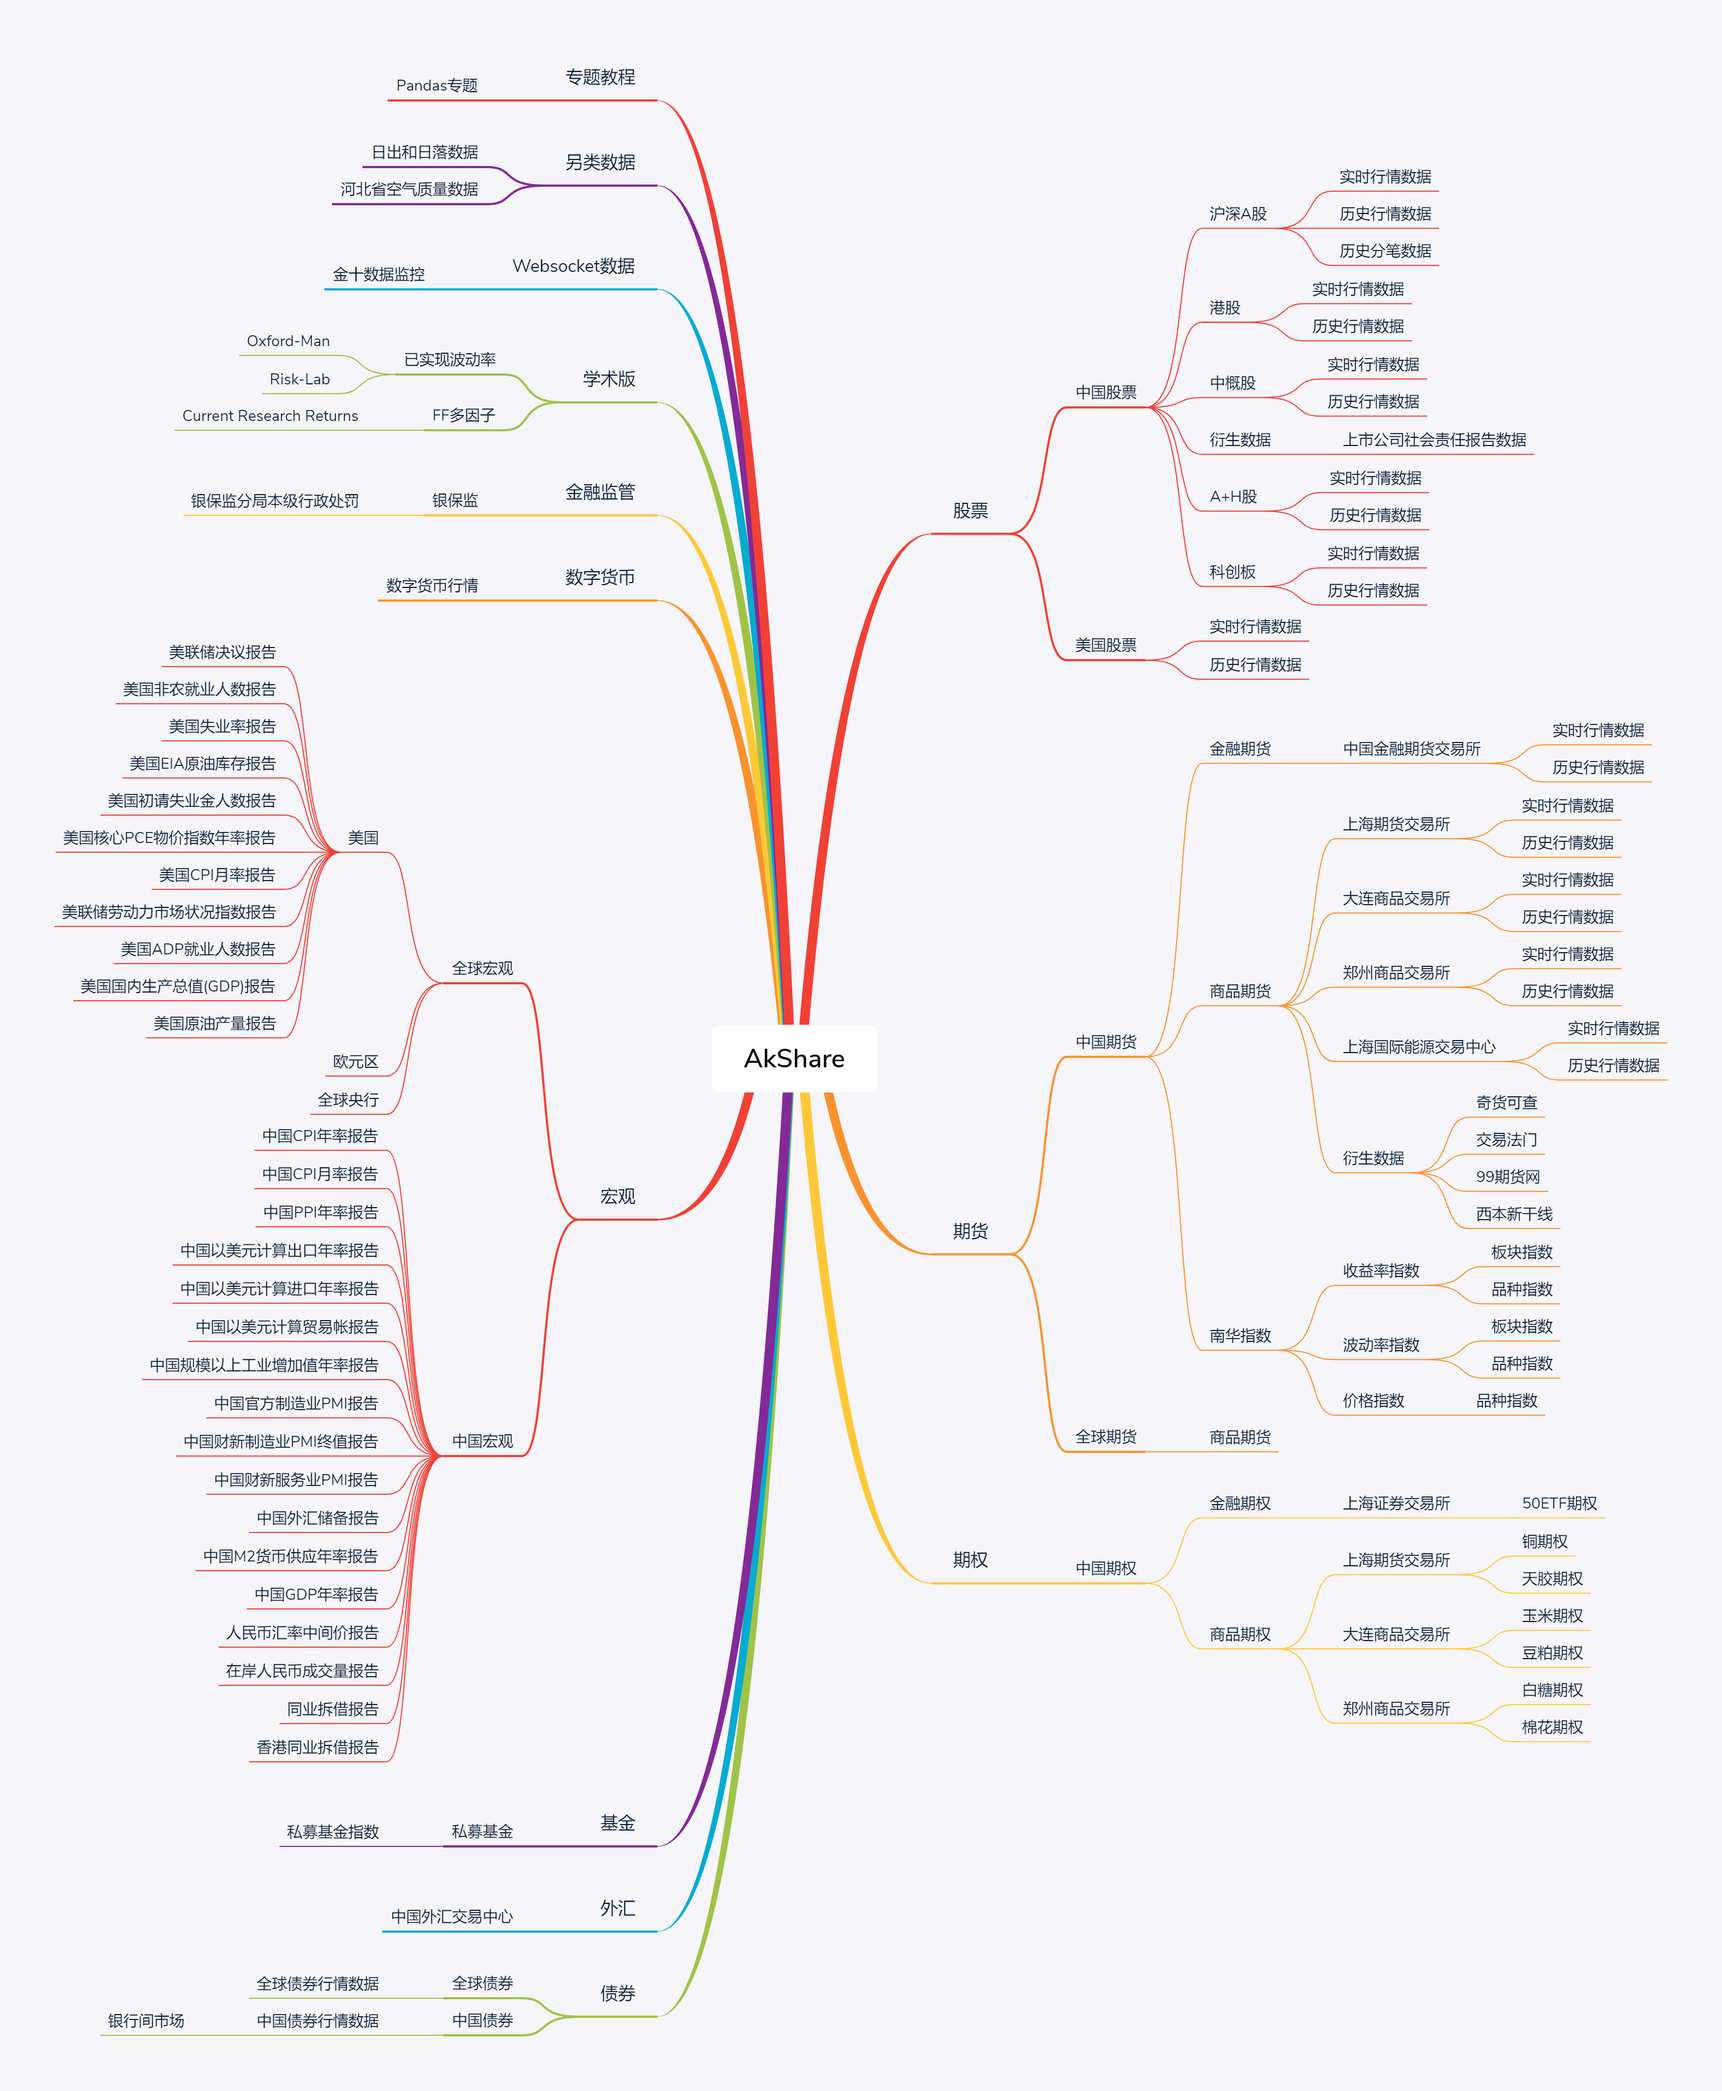
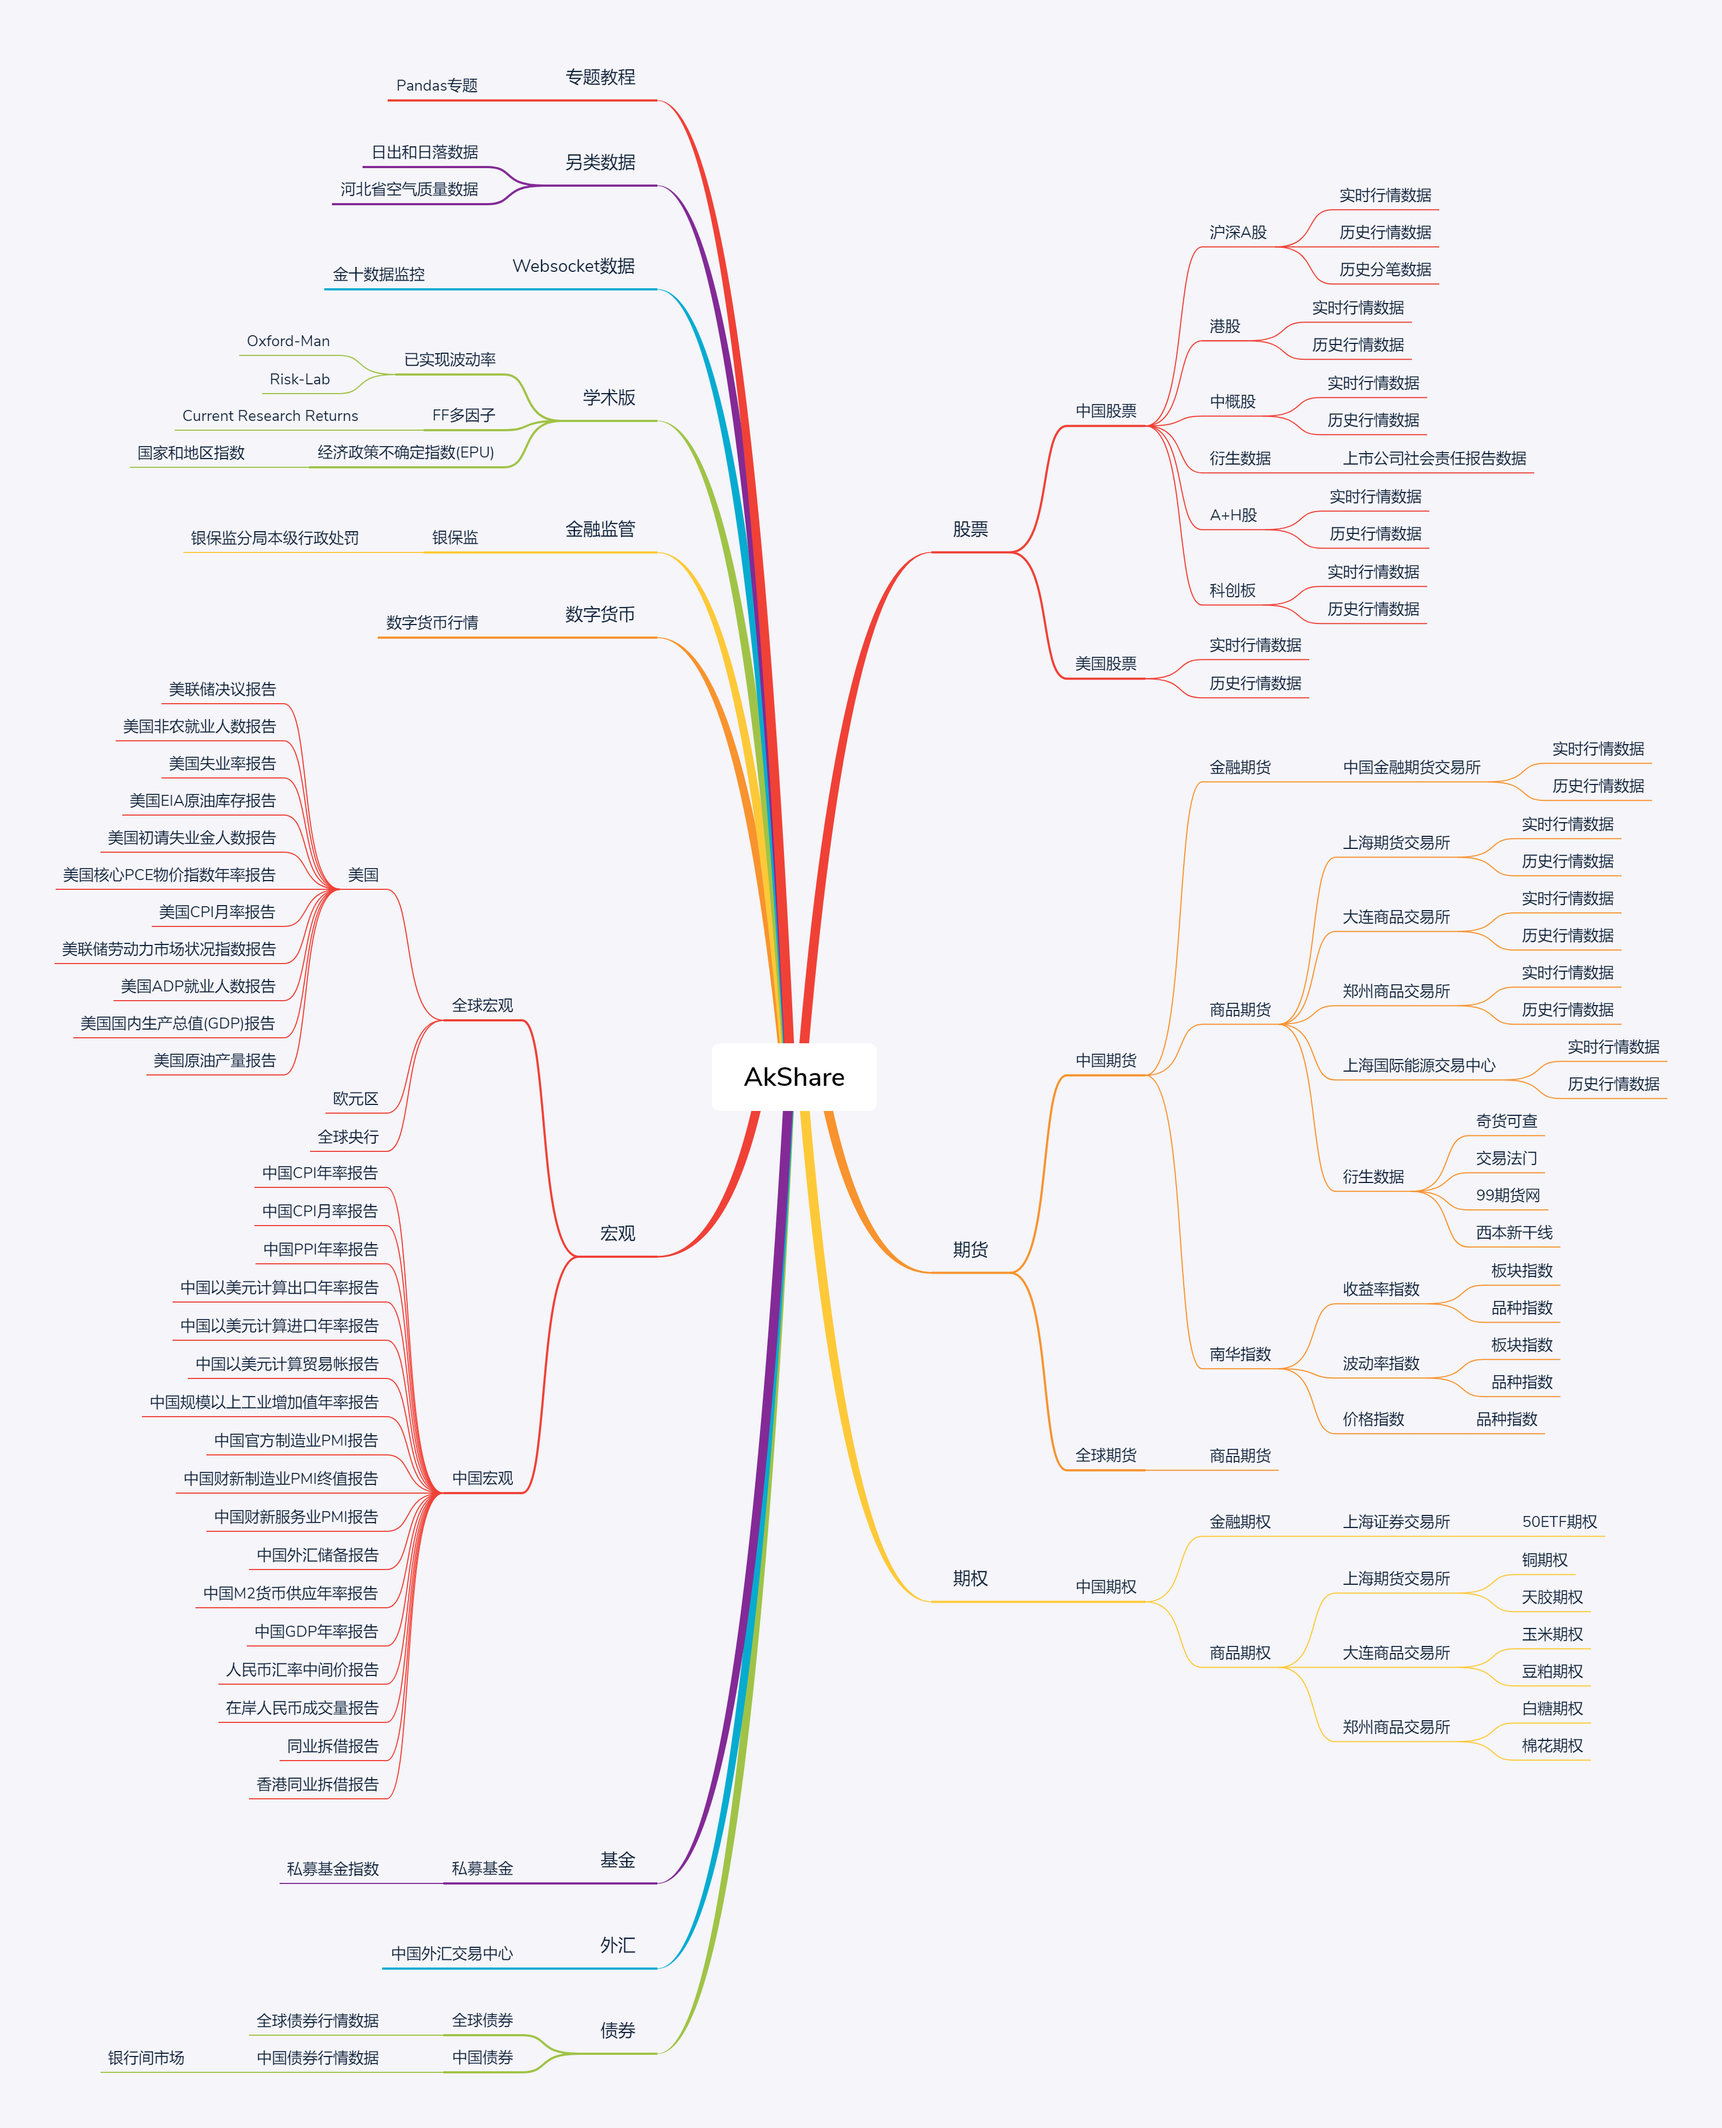
0.2.56 新增经济政策不确定性(EPU)数据接口 更新说明文档 修改示例说明

diff --git a/akshare/article/epu_index.py b/akshare/article/epu_index.py
@@ -1,0 +1,53 @@
+# -*- coding:utf-8 -*-
+# /usr/bin/env python
+"""
+Author: Albert King
+date: 2019/11/30 13:14
+contact: jindaxiang@163.com
+desc: 获取 http://www.policyuncertainty.com/index.html 网站的经济政策不确定性指数
+"""
+import requests
+import pandas as pd
+from bs4 import BeautifulSoup
+
+from akshare.article.cons import epu_home_url
+
+res = requests.get(epu_home_url)
+soup = BeautifulSoup(res.text, "lxml")
+html_left_list = soup.find(attrs={"class": "sidebar_container"}).find_all("p", attrs={"class": "alignleft"})
+html_right_list = soup.find(attrs={"class": "sidebar_container"}).find_all("p", attrs={"class": "alignright"})
+
+index_left_list = [item.get_text() for item in html_left_list][4:]
+index_right_list = [item.get_text() for item in html_right_list]
+index_list = index_left_list + index_right_list
+
+
+def article_epu_index(index="China"):
+    if index == "China New":
+        index = "China"
+    if index == "USA":
+        index = "US"
+    if index == "Hong Kong":
+        index = "HK"
+        epu_df = pd.read_excel(f"http://www.policyuncertainty.com/media/{index}_EPU_Data_Annotated.xlsx")
+        return epu_df
+    if index in ["Germany", "France", "Italy"]:  # 欧洲
+        index = "Europe"
+    if index == "South Korea":
+        index = "Korea"
+    if index == "Spain New":
+        index = "Spain"
+    if index in ["Ireland", "Chile", "Colombia", "Netherlands", "Singapore", "Sweden"]:
+        epu_df = pd.read_excel(f"http://www.policyuncertainty.com/media/{index}_Policy_Uncertainty_Data.xlsx")
+        return epu_df
+    if index == "Greece":
+        epu_df = pd.read_excel(f"http://www.policyuncertainty.com/media/FKT_{index}_Policy_Uncertainty_Data.xlsx")
+        return epu_df
+    url = f"http://www.policyuncertainty.com/media/{index}_Policy_Uncertainty_Data.csv"
+    epu_df = pd.read_csv(url)
+    return epu_df
+
+
+if __name__ == "__main__":
+    epu_index_df = article_epu_index(index="China")
+    print(epu_index_df)

diff --git a/akshare/__init__.py b/akshare/__init__.py
@@ -337,10 +337,19 @@ PCE物价指数年率报告
 0.2.55
 更新已实现波动率的说明文档
 统一 ff_crr --> article_ff_crr
+0.2.56
+新增经济政策不确定性(EPU)数据接口
+更新说明文档
+修改示例说明
 """
 
-__version__ = '0.2.55'
+__version__ = '0.2.56'
 __author__ = 'Albert King'
+
+"""
+经济政策不确定性指数
+"""
+from akshare.article.epu_index import article_epu_index
 
 """
 南华期货-南华指数

diff --git a/akshare/article/cons.py b/akshare/article/cons.py
@@ -6,5 +6,9 @@ date: 2019/11/14 20:32
 contact: jindaxiang@163.com
 desc: 学术板块配置文件
 """
+# EPU
+epu_home_url = "http://www.policyuncertainty.com/index.html"
+
 # FF-factor
 ff_home_url = "http://mba.tuck.dartmouth.edu/pages/faculty/ken.french/data_library.html"
+

diff --git a/docs/source/data/article/article.md b/docs/source/data/article/article.md
@@ -269,3 +269,82 @@ Big Conservative                                       5.23
 Big Neutral                                            4.49  
 Big Aggressive                                        -0.38
 ```
+
+
+## [AkShare](https://github.com/jindaxiang/akshare) 经济政策不确定性(EPU)指数
+
+### 国家和地区指数
+
+接口: article_epu_index
+
+目标地址: http://www.policyuncertainty.com/index.html
+
+描述: 获取国家或地区的经济政策不确定性(EPU)数据
+
+限量: 单次返回某个具体国家或地区的所有月度经济政策不确定性数据
+
+输入参数
+
+| 名称   | 类型 | 必选 | 描述                                                                              |
+| -------- | ---- | ---- | --- |
+| index | str  | Y    |  index="China"; 按 **国家和地区一览表** 输入相应参数|
+
+国家和地区一览表
+
+| 英文名词          | 说明 |
+| --------------- | ----- | 
+| Global |  | 
+| Australia |  | 
+| Canada |  | 
+| China |  | 
+| Europe | 欧洲 | 
+| Germany | 欧洲 | 
+| Hong Kong |  | 
+| Ireland |  | 
+| Japan |  | 
+| Mexico |  | 
+| Russia |  | 
+| Spain |  | 
+| UK |  | 
+| USA |  | 
+| Brazil |  | 
+| Chile |  | 
+| Colombia | 有两种, 默认第一种(FKT) | 
+| France | 欧洲 | 
+| Greece |  | 
+| India |  | 
+| Italy | 欧洲 | 
+| South Korea |  | 
+| Netherlands |  | 
+| Singapore |  | 
+| Sweden |  |
+
+输出参数
+
+| 名称          | 类型 | 默认显示 | 描述           |
+| --------------- | ----- | -------- | ---------------- |
+| -      | -   | -        | 每个国家或地区不同  |  
+
+接口示例
+
+```python
+import akshare as ak
+epu_index_df = ak.article_epu_index(index="China")
+print(epu_index_df)
+```
+
+数据示例
+
+```
+     year  month  China_Policy_Index
+0    1995      1           192.91190
+1    1995      2           193.98790
+2    1995      3            88.22704
+3    1995      4           131.03470
+4    1995      5           177.09690
+..    ...    ...                 ...
+287  2018     12           935.31030
+288  2019      1           654.96260
+289  2019      2           720.15790
+290  2019      3           753.10770
+291  2019      4           502.55000```

diff --git a/docs/source/akshare/ak-tutorial.md b/docs/source/akshare/ak-tutorial.md
@@ -4,16 +4,9 @@
 
 ## 2. 再查看 [AkShare](https://github.com/jindaxiang/akshare) 提供的数据接口
 
-**Example 2.1** 查看 [AkShare](https://github.com/jindaxiang/akshare) 提供的数据接口
+具体函数使用详情, 请查看 [AkShare 文档](https://akshare.readthedocs.io/) 每个接口的示例代码
 
-代码:
-
-```python
-import akshare as ak
-[item for item in dir(ak) if item.startswith("get")]
-```
-
-结果显示: 数据获取函数说明
+[AkShare](https://github.com/jindaxiang/akshare) 数据接口一览表
 
 ```
  # 交易所期货数据
@@ -146,14 +139,28 @@ import akshare as ak
  'stock_zh_index_daily'  # 股票指数历史行情数据
  'stock_zh_index_spot'  # 股票指数实时行情数据
  # 股票分笔数据
- 'stock_zh_a_tick'  # A股票分笔行情数据(近2年)
+ 'stock_zh_a_tick'  # A 股票分笔行情数据(近2年)
+ # Websocket 实时监控
+ 'watch'  # 监控外汇实时价格
+ # 世界各地区日出和日落数据-日
+ 'weather_daily'  # 每日日出和日落数据
+ # 世界各地区日出和日落数据-月
+ 'weather_monthly'  # 每月日出和日落数据
+ # 河北空气质量数据(期货-钢铁)
+ 'air_hebei'  # 河北空气质量数据
+ # 南华期货-南华指数-波动率指数
+ 'nh_volatility_index'  # 波动率指数
+ # 南华期货-南华指数-价格指数
+ 'nh_price_index'  # 价格指数
+ # 南华期货-南华指数-收益率指数
+ 'nh_return_index'  # 收益率指数
+ # 经济政策不确定性(EPU)指数
+ 'article_epu_index'  # 主要国家和地区的经济政策不确定性(EPU)指数
 ```
 
 ## 3. 案例演示
 
-### 3. 获取展期收益率
-
-**Example 3.1** 获取展期收益率数据:
+### 3.1 获取展期收益率
 
 代码:
 
@@ -190,9 +197,7 @@ ak.get_roll_yield_bar(type_method="date", var="RB", start_day="20180618", end_da
 2018-07-18    0.225529  RB1810   RB1901
 ```
 
-### 4. 获取私募指数数据
-
-**Example 4.1** 获取私募指数数据:
+### 3.2 获取私募指数数据
 
 代码:
 

diff --git a/docs/source/akshare/ak-introduction.md b/docs/source/akshare/ak-introduction.md
@@ -89,6 +89,19 @@
     6.27 增加[腾讯财经](http://stockapp.finance.qq.com/mstats/#mod=list&id=ssa&module=SS&type=ranka)数据接口, 提供历史分笔行情数据(近2年)
     
     6.28 增加[金十数据](https://datacenter.jin10.com/market)监控数据接口, 提供基于 Websocket 的数据接口(基础版本);
+
+    6.29 增加[微信公众号: Python大咖谈](https://upload-images.jianshu.io/upload_images/3240514-61004f2c71be4a0b.png)专题教程-pandas专题-连载;
+
+    6.30 增加[timeanddate网站](https://www.timeanddate.com/)提供的日出和日落数据接口;
+    
+    6.31 增加[河北省空气质量预报信息发布系统网站](http://110.249.223.67/publish/)提供的河北省空气质量数据接口;
+    
+    6.32 增加[南华期货网站](http://www.nanhua.net/nhzc/varietytrend.html)商品指数历史走势-收益率指数、价格指数、波动率指数接口;
+    
+    6.33 增加[Economic Policy Uncertainty网站](http://www.nanhua.net/nhzc/varietytrend.html)提供经济政策不确定性(EPU)指数数据接口;
+
+
+
 7. 提供完善的接口文档, 提高 [AkShare](https://github.com/jindaxiang/akshare) 的易用性;
 8. 希望您能参与 [AkShare GitHub](https://github.com/jindaxiang/akshare) 的维护与管理.
 

diff --git a/README.md b/README.md
@@ -110,6 +110,8 @@ pip install akshare --upgrade
 
 感谢[南华期货网站](http://www.nanhua.net/nhzc/varietytrend.html)提供南华期货-南华指数数据;
 
+感谢[Economic Policy Uncertainty网站](http://www.nanhua.net/nhzc/varietytrend.html)提供经济政策不确定性(EPU)指数数据;
+
 感谢[微信公众号: Python大咖谈](https://upload-images.jianshu.io/upload_images/3240514-61004f2c71be4a0b.png)提供的 Pandas 教程.
 
 ## Communication

diff --git a/docs/source/akshare/ak-changelog.md b/docs/source/akshare/ak-changelog.md
@@ -439,4 +439,9 @@ PCE物价指数年率报告
 0.2.55
 更新已实现波动率的说明文档
 统一 ff_crr --> article_ff_crr
+
+0.2.56
+新增经济政策不确定性(EPU)数据接口
+更新说明文档
+修改示例说明
 ```
